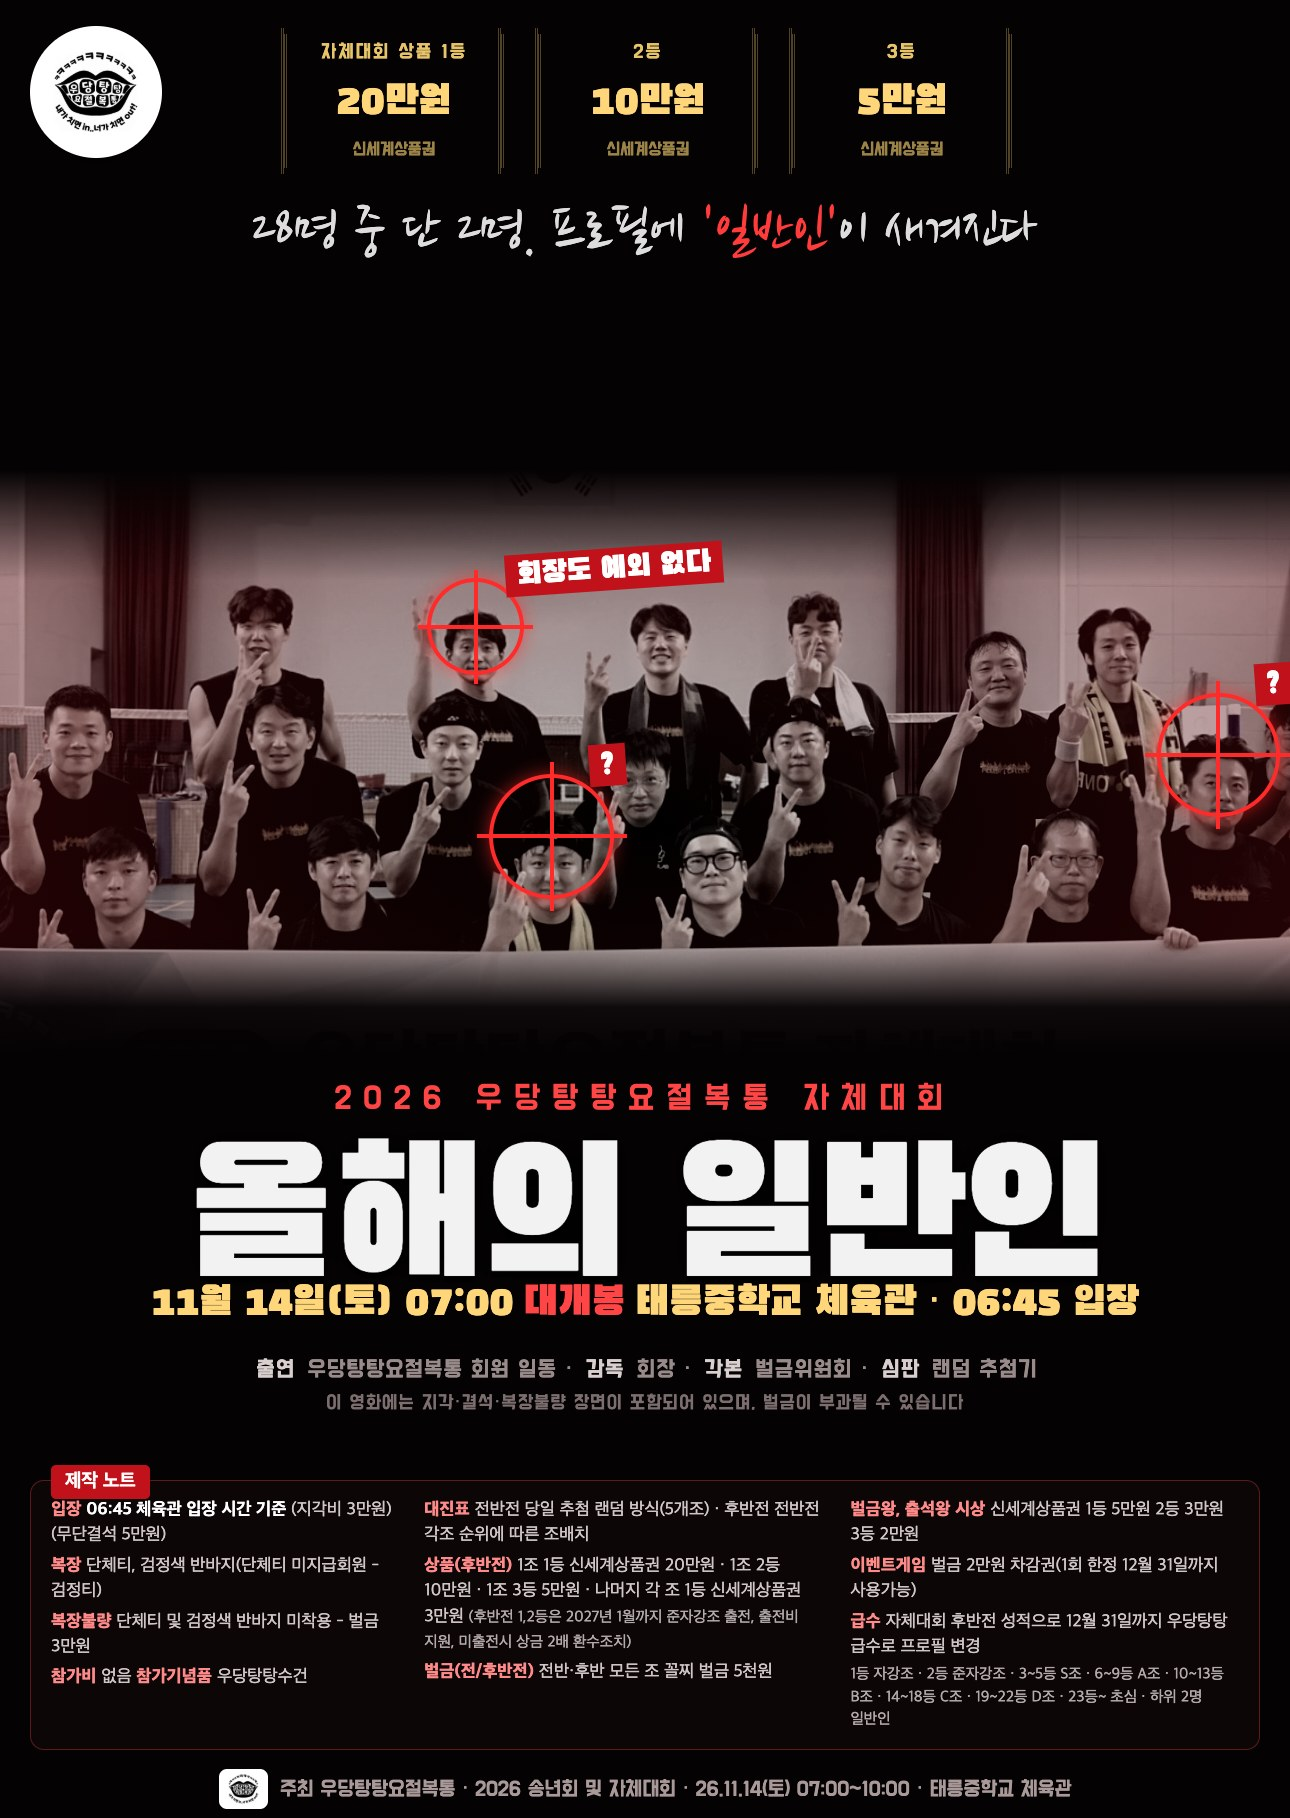
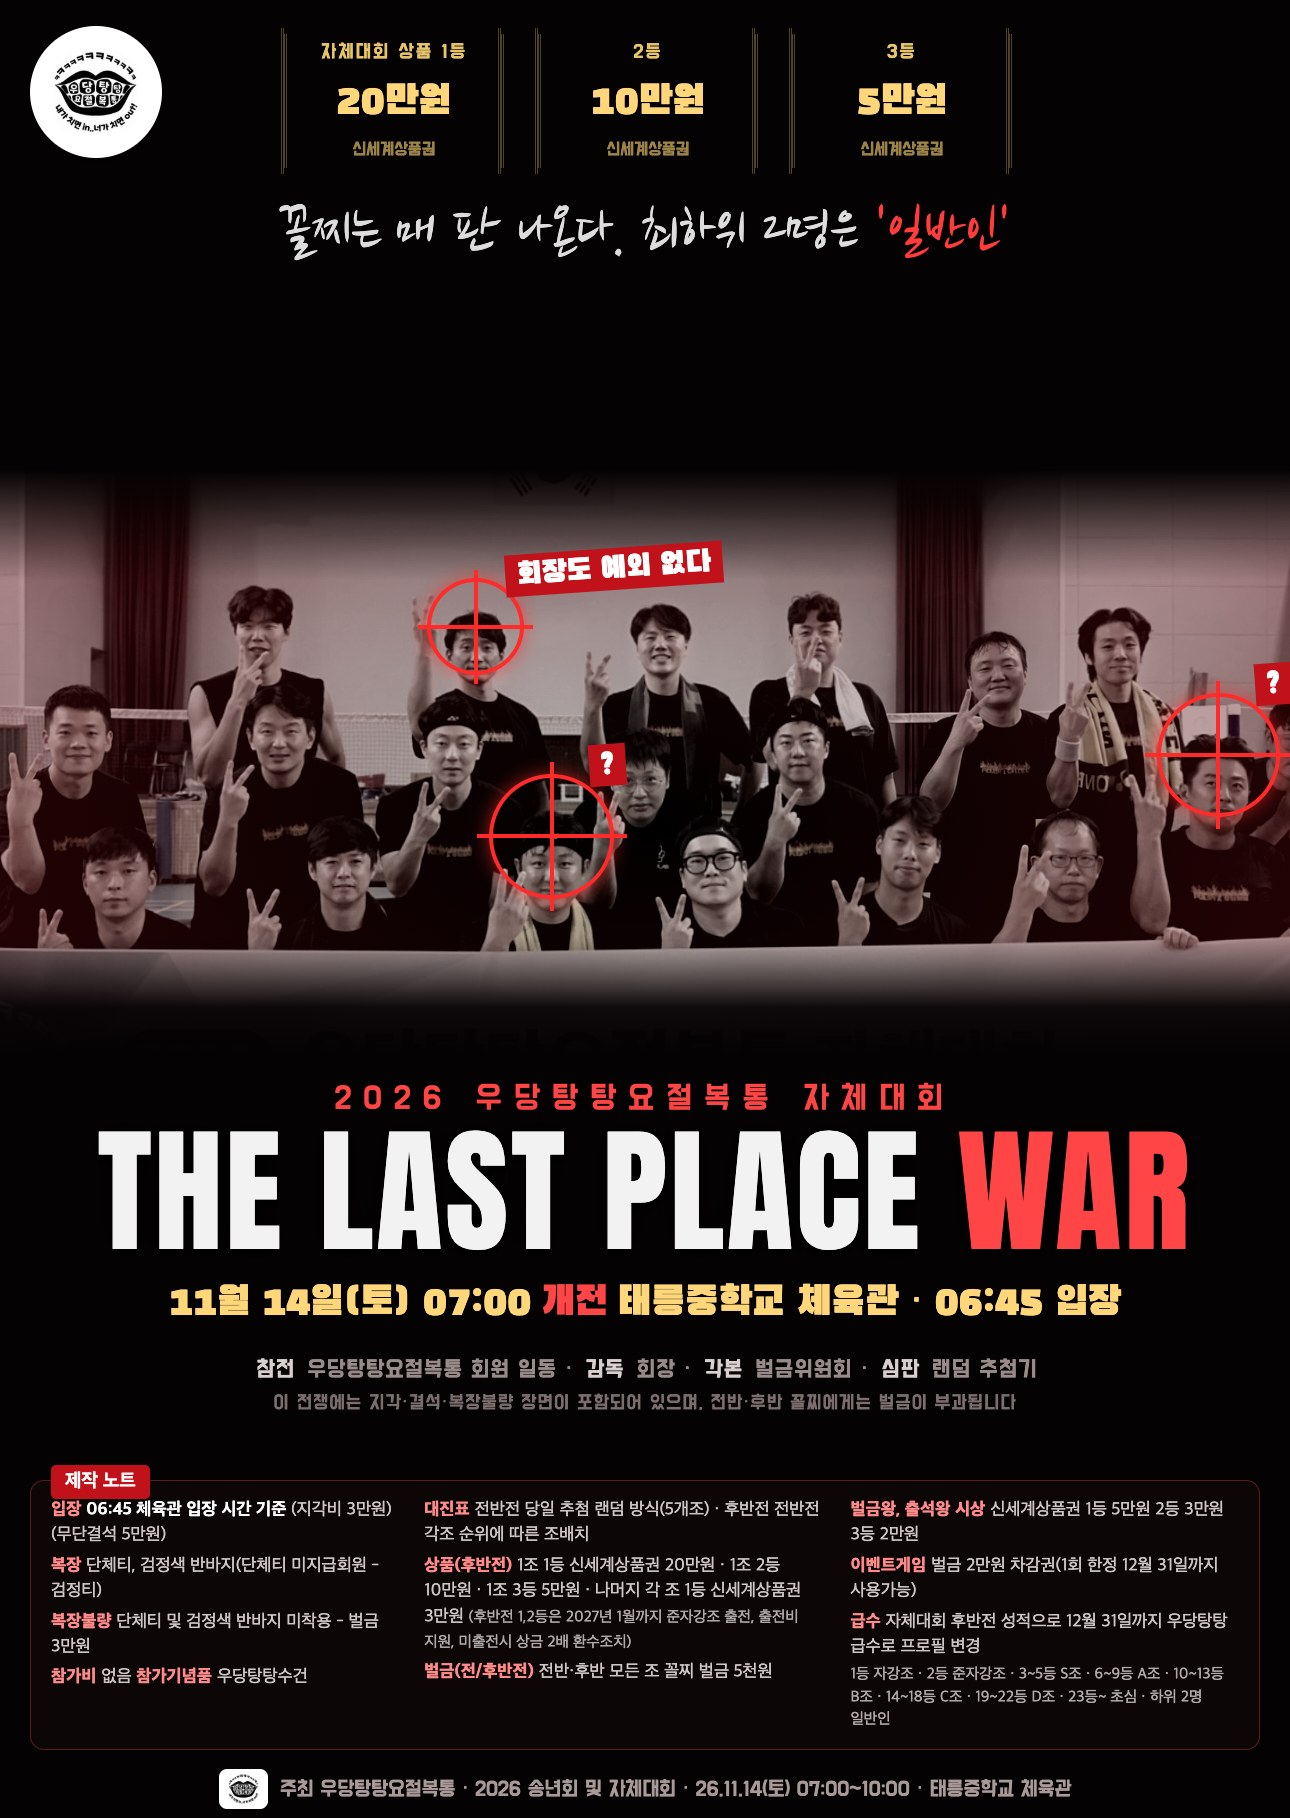
포스터 컨셉 변경: THE LAST PLACE WAR
- 포스터 A 메인 문구 영문 THE LAST PLACE WAR, 꼴찌 전쟁 컨셉 카피(개전·참전)
- 웹 테마 A 이름·og:title 변경, 미리보기 이미지에 제목 전체 포함
- 문구 검사 29/29, 자체 검사 main·bracket 통과

diff --git a/index.html b/index.html
@@ -8,7 +8,7 @@
 <title>2026 우당탕탕요절복통 송년회 및 자체대회 — 대진표</title>
 <meta name="description" content="11.14(토) 07:00 태릉중학교 체육관 · 대진표·조 추첨·급수 발표">
 <meta property="og:type" content="website">
-<meta property="og:title" content="2026 우당탕탕요절복통 송년회 및 자체대회">
+<meta property="og:title" content="THE LAST PLACE WAR · 2026 우당탕탕요절복통 송년회 및 자체대회">
 <meta property="og:description" content="11.14(토) 07:00 태릉중학교 체육관 · 대진표·조 추첨·급수 발표">
 <meta property="og:image" content="https://playjc.co.kr/assets/og.jpg">
 <meta property="og:image:width" content="1200">
@@ -613,7 +613,7 @@ body[data-theme="C"] #show{background:radial-gradient(1200px 700px at 50% 30%,#3
   <div class="box" style="margin-top:16px" id="settingsBox">
     <h2>설정</h2>
     <div class="setgrid">
-      <label>포스터·테마 <select id="setPoster"><option value="A">A 올해의 일반인</option><option value="B">B 흑백복식사</option><option value="C">C 범죄도시 벌금 소탕작전</option></select></label>
+      <label>포스터·테마 <select id="setPoster"><option value="A">A THE LAST PLACE WAR</option><option value="B">B 흑백복식사</option><option value="C">C 범죄도시 벌금 소탕작전</option></select></label>
       <label>전반전 시작 <input type="text" id="setR1Start" inputmode="numeric" maxlength="5" placeholder="07:00"></label>
       <label>후반전 시작 <input type="text" id="setR2Start" inputmode="numeric" maxlength="5" placeholder="08:25"></label>
       <label>경기당(분) <input type="number" id="setRoundMin" min="5" max="40"></label>
